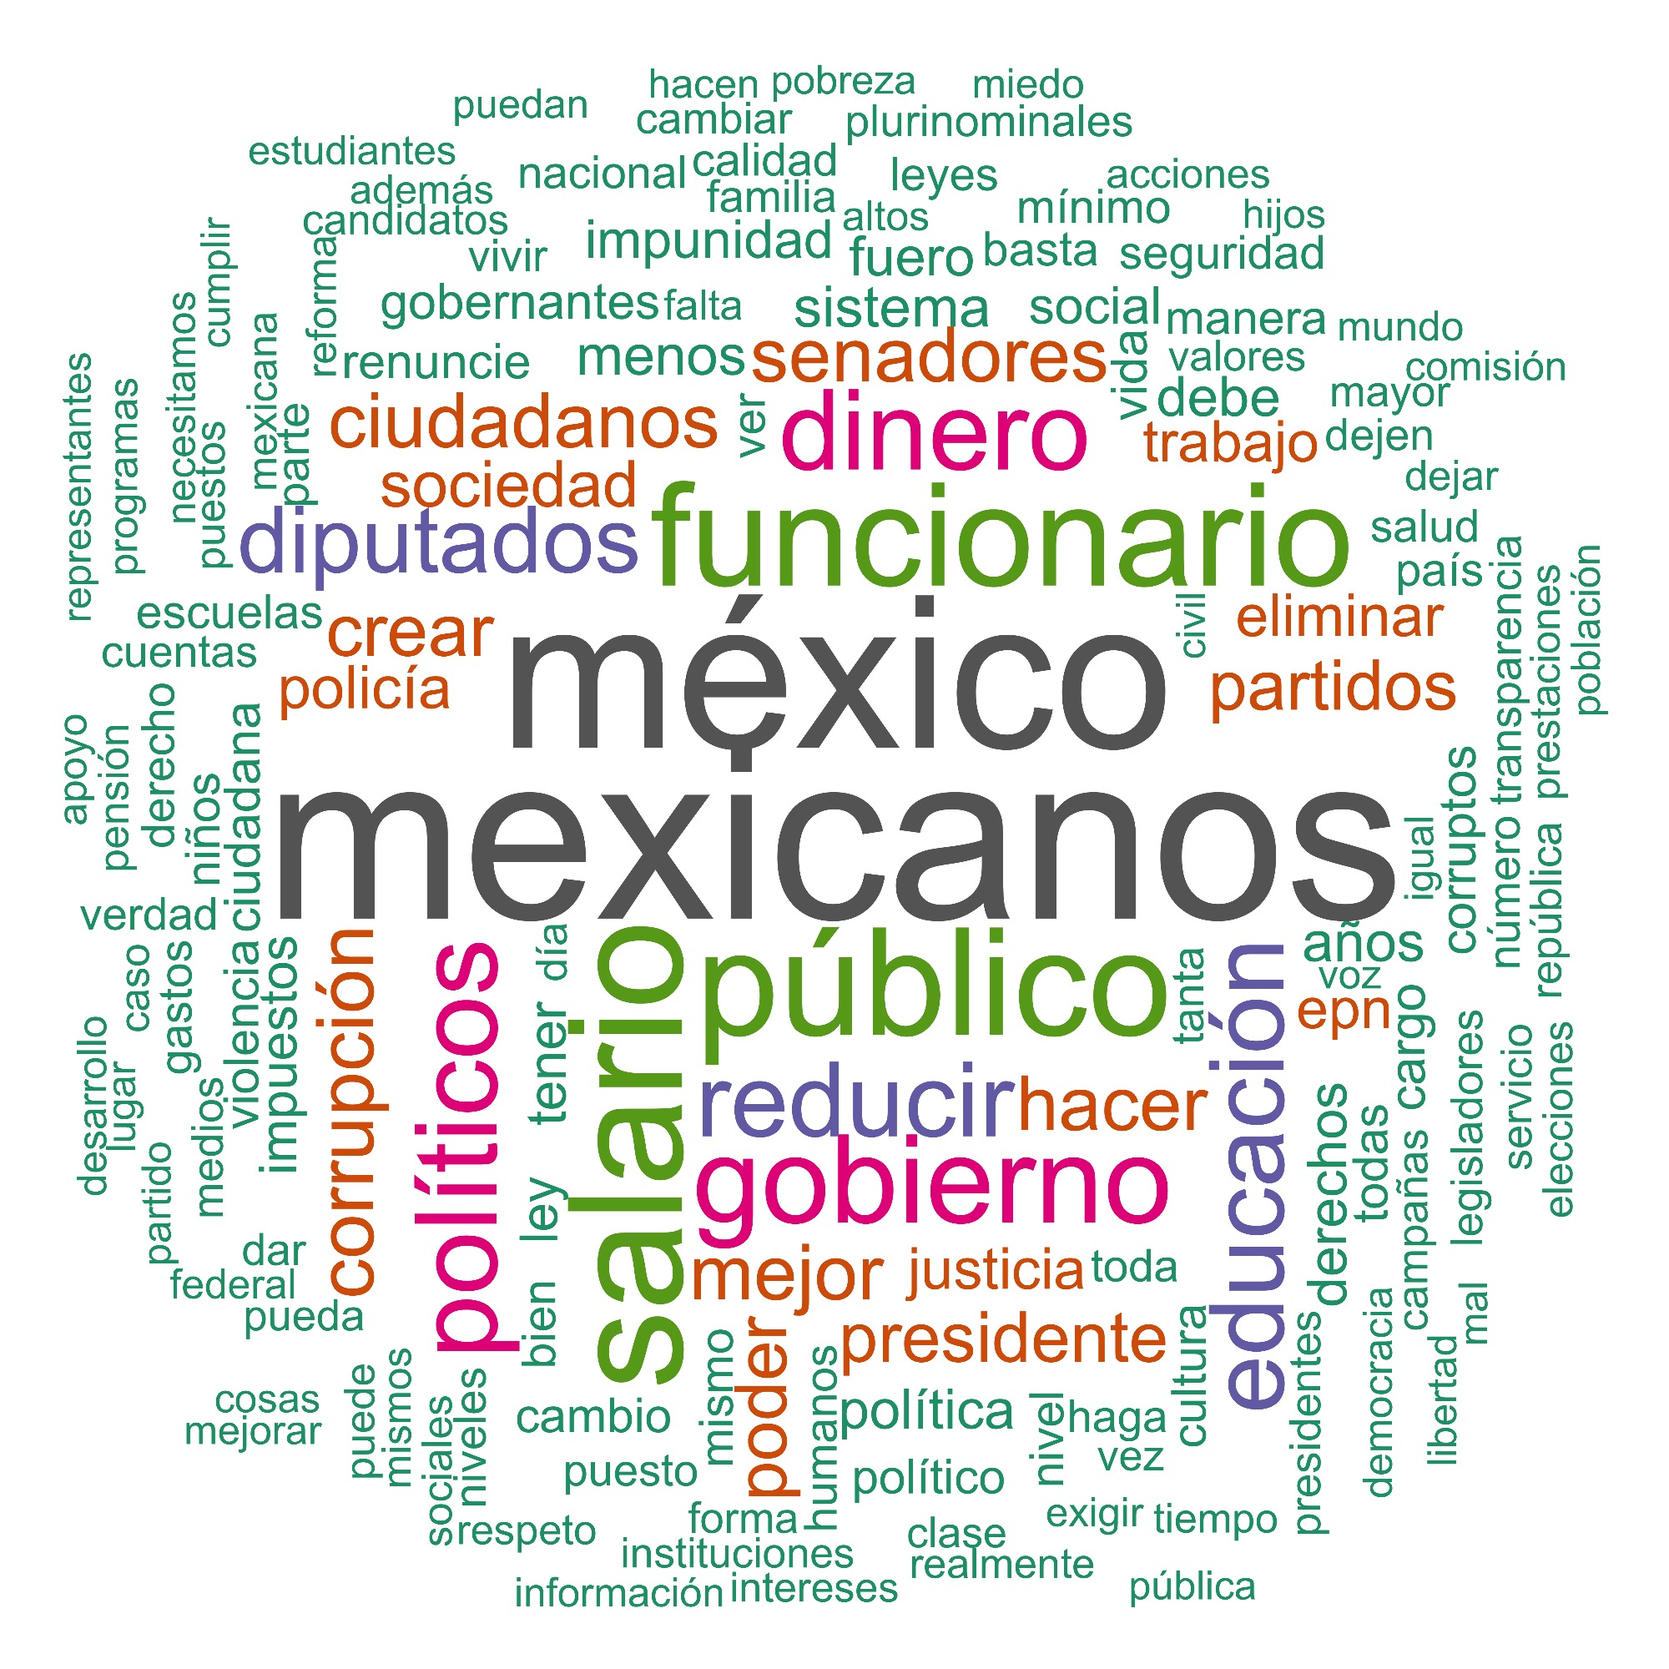
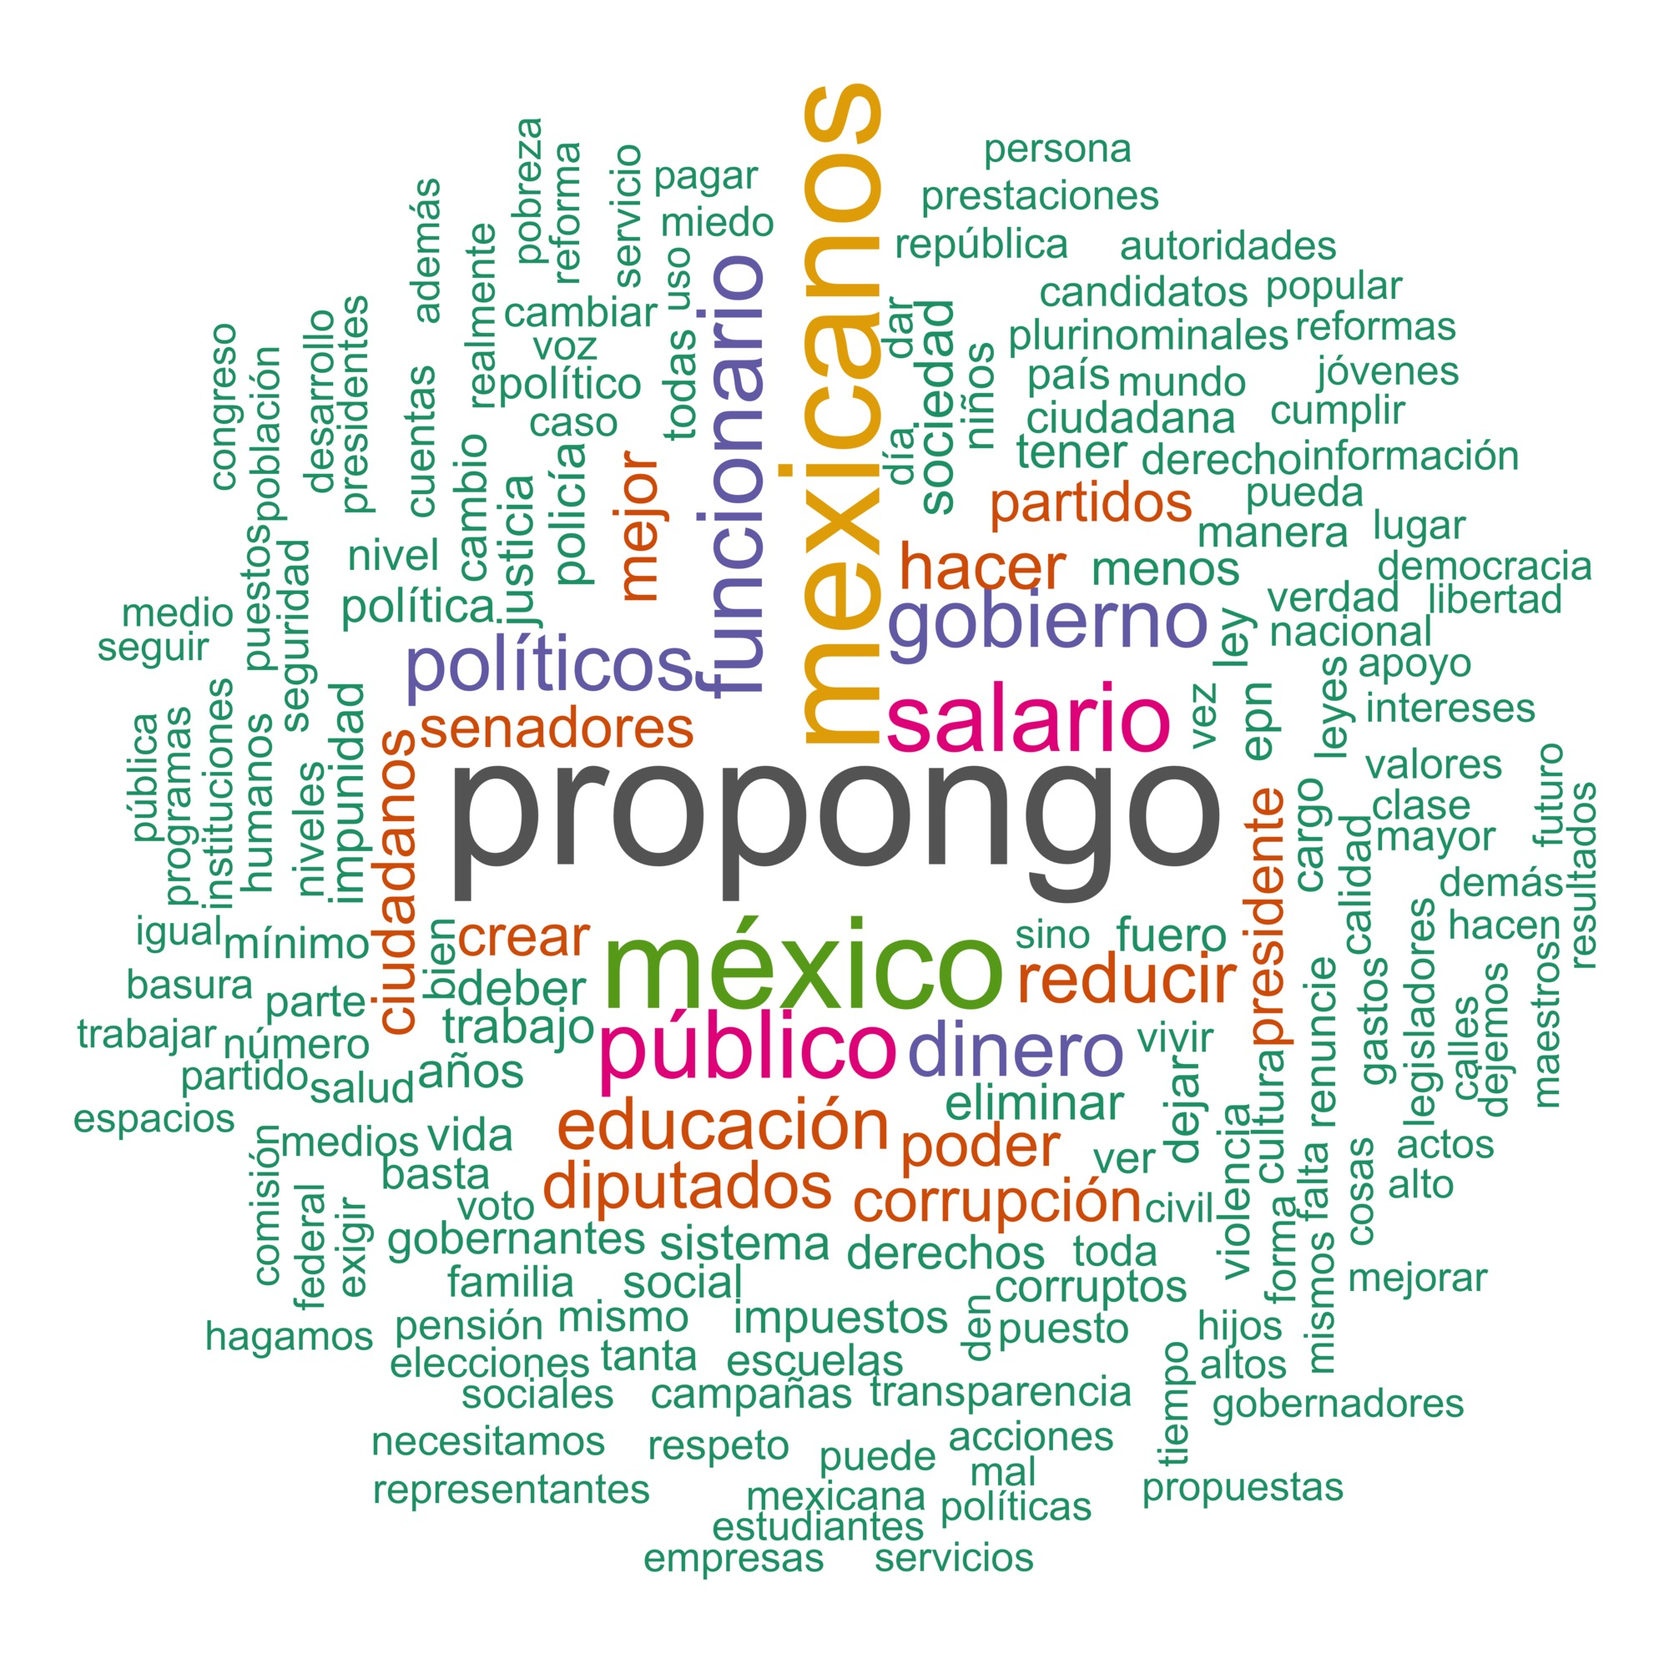
New What's New page with poster. Made that the frontpage for now.

Changed region(s): [[0.031, 0.031, 0.961, 0.961]]

diff --git a/whatsnext.html b/whatsnext.html
@@ -9,18 +9,362 @@
 <body role="document">
 
 <div class="container-fluid">
-  <div id="navbar"></div>
+    <style>
+    .navbar-header img { max-height: 90px; }
+    .navbar-fixed-top { min-height: 90px; }
+    body {
+      padding-top: 680px;
+    }
+    .scrollable-menu {
+      height: auto;
+      max-height: 500px;
+      overflow-x: hidden;
+    }
+    .footer {
+      font-size: 65%;
+      /* Set the fixed height of the footer here */
+      height: 20px;
+      background-color: #f5f5f5;
+    }
+    /* Sticky footer styles
+    -------------------------------------------------- */
+    html {
+      position: relative;
+      min-height: 100%;
+    }
+    body {
+      /* Margin bottom by footer height */
+      margin-bottom: 20px;
+    }
+    .footer {
+      position: absolute;
+      bottom: 0;
+      width: 100%;
+      /* Set the fixed height of the footer here */
+      height: 20px;
+      background-color: #f5f5f5;
+    }
+  </style>
+  <style>
+    .navbar-header img { max-height: 90px; }
+    .navbar-fixed-top { min-height: 90px; }
+    body {
+      padding-top: 90px;
+    }
+    .scrollable-menu {
+      height: auto;
+      max-height: 500px;
+      overflow-x: hidden;
+    }
+    .footer {
+      font-size: 65%;
+      /* Set the fixed height of the footer here */
+      height: 20px;
+      background-color: #f5f5f5;
+    }
+    /* Sticky footer styles
+    -------------------------------------------------- */
+    html {
+      position: relative;
+      min-height: 100%;
+    }
+    body {
+      /* Margin bottom by footer height */
+      margin-bottom: 20px;
+    }
+    .footer {
+      position: absolute;
+      bottom: 0;
+      width: 100%;
+      /* Set the fixed height of the footer here */
+      height: 20px;
+      background-color: #f5f5f5;
+    }
+  </style>
 
-  <img class="img-responsive" src="banner_thin.jpg"/>
+  <!-- Hook for FB Share button-->
+  <div id="fb-root"></div>
+  <script>(function(d, s, id) {
+    var js, fjs = d.getElementsByTagName(s)[0];
+    if (d.getElementById(id)) return;
+    js = d.createElement(s); js.id = id;
+    js.src = "//connect.facebook.net/en_US/sdk.js#xfbml=1&version=v2.0";
+    fjs.parentNode.insertBefore(js, fjs);
+  }(document, 'script', 'facebook-jssdk'));</script>
+  <!-- Hook for FB Share button end-->
 
-  <p>El 3 de marzo a partir de las 12pm entregaremos y presentaremos las postales en un evento abierto al público. Aparta la fecha.</p>
+  <div class="navbar navbar-default navbar-fixed-top" role="navigation" id="topnavbar">
+    <div class="container-fluid">
 
-  <p>A partir de las miles de propuestas recibidas, una comisión de ciudadanos está elaborando un documento que sintetiza y expone las principales inquietudes e ideas ciudadanas, el cual se entregará junto con las postales. Lo publicaremos aquí en los próximos días.</p>
+      <div class="navbar-header">
+        <a href="/">
+          <img class="img-responsive"
+               alt="Ya Me Cansé Por Eso Propongo"
+               src="/logo.png"/>
+        </a>
 
-  <img class="img-responsive" src="banner_thin.jpg"/>
+        <button type="button"
+                class="navbar-toggle collapsed"
+                data-toggle="collapse"
+                data-target=".navbar-collapse">
+          <span class="sr-only">Toggle navigation</span>
+          <span class="icon-bar"></span>
+          <span class="icon-bar"></span>
+          <span class="icon-bar"></span>
+        </button>
+      </div>
+
+      <div class="navbar-collapse collapse">
+        <ul class="nav navbar-nav navbar-left">
+          <!-- FB Share button -->
+          <li>
+            <div class="fb-share-button" data-layout="button"></div>
+          </li>
+
+          <!-- Tweet button -->
+          <li>
+            <a href="https://twitter.com/share"
+               class="twitter-share-button"
+               data-text="#YaMeCansé #PorEsoPropongo"
+               data-dnt="true"
+               data-count="none"
+               data-via="poresopropongo"
+            >Tweet</a>
+            <script>window.twttr=(function(d,s,id){var js,fjs=d.getElementsByTagName(s)[0],t=window.twttr||{};if(d.getElementById(id))return;js=d.createElement(s);js.id=id;js.src="https://platform.twitter.com/widgets.js";fjs.parentNode.insertBefore(js,fjs);t._e=[];t.ready=function(f){t._e.push(f);};return t;}(document,"script","twitter-wjs"));</script>
+          </li>
+        </ul>
+
+        <ul class="nav navbar-nav navbar-right">
+
+          <li class="dropdown">
+            <a href="#"
+               class="dropdown-toggle"
+               data-toggle="dropdown"
+               role="button"
+               aria-expanded="false"
+            >Postales Enviadas<span class="caret"></span></a>
+            <ul class="dropdown-menu scrollable-menu" role="menu">
+              <li><a href="/17200">Galerías 1</a></li>
+              <li><a href="/17100">Galerías 2</a></li>
+              <li><a href="/17000">Galerías 3</a></li>
+              <li><a href="/16900">Galerías 4</a></li>
+              <li><a href="/16800">Galerías 5</a></li>
+              <li><a href="/16700">Galerías 6</a></li>
+              <li><a href="/16600">Galerías 7</a></li>
+              <li><a href="/16500">Galerías 8</a></li>
+              <li><a href="/16400">Galerías 9</a></li>
+              <li><a href="/16300">Galerías 10</a></li>
+              <li><a href="/16200">Galerías 11</a></li>
+              <li><a href="/16100">Galerías 12</a></li>
+              <li><a href="/16000">Galerías 13</a></li>
+              <li><a href="/15900">Galerías 14</a></li>
+              <li><a href="/15800">Galerías 15</a></li>
+              <li><a href="/15700">Galerías 16</a></li>
+              <li><a href="/15600">Galerías 17</a></li>
+              <li><a href="/15500">Galerías 18</a></li>
+              <li><a href="/15400">Galerías 19</a></li>
+              <li><a href="/15300">Galerías 20</a></li>
+              <li><a href="/15200">Galerías 21</a></li>
+              <li><a href="/15100">Galerías 22</a></li>
+              <li><a href="/15000">Galerías 23</a></li>
+              <li><a href="/14900">Galerías 24</a></li>
+              <li><a href="/14800">Galerías 25</a></li>
+              <li><a href="/14700">Galerías 26</a></li>
+              <li><a href="/14600">Galerías 27</a></li>
+              <li><a href="/14500">Galerías 28</a></li>
+              <li><a href="/14400">Galerías 29</a></li>
+              <li><a href="/14300">Galerías 30</a></li>
+              <li><a href="/14200">Galerías 31</a></li>
+              <li><a href="/14100">Galerías 32</a></li>
+              <li><a href="/14000">Galerías 33</a></li>
+              <li><a href="/13900">Galerías 34</a></li>
+              <li><a href="/13800">Galerías 35</a></li>
+              <li><a href="/13700">Galerías 36</a></li>
+              <li><a href="/13600">Galerías 37</a></li>
+              <li><a href="/13500">Galerías 38</a></li>
+              <li><a href="/13400">Galerías 39</a></li>
+              <li><a href="/13300">Galerías 40</a></li>
+              <li><a href="/13200">Galerías 41</a></li>
+              <li><a href="/13100">Galerías 42</a></li>
+              <li><a href="/13000">Galerías 43</a></li>
+              <li><a href="/12900">Galerías 44</a></li>
+              <li><a href="/12800">Galerías 45</a></li>
+              <li><a href="/12700">Galerías 46</a></li>
+              <li><a href="/12600">Galerías 47</a></li>
+              <li><a href="/12500">Galerías 48</a></li>
+              <li><a href="/12400">Galerías 49</a></li>
+              <li><a href="/12300">Galerías 50</a></li>
+              <li><a href="/12200">Galerías 51</a></li>
+              <li><a href="/12100">Galerías 52</a></li>
+              <li><a href="/12000">Galerías 53</a></li>
+              <li><a href="/11900">Galerías 54</a></li>
+              <li><a href="/11800">Galerías 55</a></li>
+              <li><a href="/11700">Galerías 56</a></li>
+              <li><a href="/11600">Galerías 57</a></li>
+              <li><a href="/11500">Galerías 58</a></li>
+              <li><a href="/11400">Galerías 59</a></li>
+              <li><a href="/11300">Galerías 60</a></li>
+              <li><a href="/11200">Galerías 61</a></li>
+              <li><a href="/11100">Galerías 62</a></li>
+              <li><a href="/11000">Galerías 63</a></li>
+              <li><a href="/10900">Galerías 64</a></li>
+              <li><a href="/10800">Galerías 65</a></li>
+              <li><a href="/10700">Galerías 66</a></li>
+              <li><a href="/10600">Galerías 67</a></li>
+              <li><a href="/10500">Galerías 68</a></li>
+              <li><a href="/10400">Galerías 69</a></li>
+              <li><a href="/10300">Galerías 70</a></li>
+              <li><a href="/10200">Galerías 71</a></li>
+              <li><a href="/10100">Galerías 72</a></li>
+              <li><a href="/10000">Galerías 73</a></li>
+              <li><a href="/9900">Galerías 74</a></li>
+              <li><a href="/9800">Galerías 75</a></li>
+              <li><a href="/9700">Galerías 76</a></li>
+              <li><a href="/9600">Galerías 77</a></li>
+              <li><a href="/9500">Galerías 78</a></li>
+              <li><a href="/9400">Galerías 79</a></li>
+              <li><a href="/9300">Galerías 80</a></li>
+              <li><a href="/9200">Galerías 81</a></li>
+              <li><a href="/9100">Galerías 82</a></li>
+              <li><a href="/9000">Galerías 83</a></li>
+              <li><a href="/8900">Galerías 84</a></li>
+              <li><a href="/8800">Galerías 85</a></li>
+              <li><a href="/8700">Galerías 86</a></li>
+              <li><a href="/8600">Galerías 87</a></li>
+              <li><a href="/8500">Galerías 88</a></li>
+              <li><a href="/8400">Galerías 89</a></li>
+              <li><a href="/8300">Galerías 90</a></li>
+              <li><a href="/8200">Galerías 91</a></li>
+              <li><a href="/8100">Galerías 92</a></li>
+              <li><a href="/8000">Galerías 93</a></li>
+              <li><a href="/7900">Galerías 94</a></li>
+              <li><a href="/7800">Galerías 95</a></li>
+              <li><a href="/7700">Galerías 96</a></li>
+              <li><a href="/7600">Galerías 97</a></li>
+              <li><a href="/7500">Galerías 98</a></li>
+              <li><a href="/7400">Galerías 99</a></li>
+              <li><a href="/7300">Galerías 100</a></li>
+              <li><a href="/7200">Galerías 101</a></li>
+              <li><a href="/7100">Galerías 102</a></li>
+              <li><a href="/7000">Galerías 103</a></li>
+              <li><a href="/6900">Galerías 104</a></li>
+              <li><a href="/6800">Galerías 105</a></li>
+              <li><a href="/6700">Galerías 106</a></li>
+              <li><a href="/6600">Galerías 107</a></li>
+              <li><a href="/6500">Galerías 108</a></li>
+              <li><a href="/6400">Galerías 109</a></li>
+              <li><a href="/6300">Galerías 110</a></li>
+              <li><a href="/6200">Galerías 111</a></li>
+              <li><a href="/6100">Galerías 112</a></li>
+              <li><a href="/6000">Galerías 113</a></li>
+              <li><a href="/5900">Galerías 114</a></li>
+              <li><a href="/5800">Galerías 115</a></li>
+              <li><a href="/5700">Galerías 116</a></li>
+              <li><a href="/5600">Galerías 117</a></li>
+              <li><a href="/5500">Galerías 118</a></li>
+              <li><a href="/5400">Galerías 119</a></li>
+              <li><a href="/5300">Galerías 120</a></li>
+              <li><a href="/5200">Galerías 121</a></li>
+              <li><a href="/5100">Galerías 122</a></li>
+              <li><a href="/5000">Galerías 123</a></li>
+              <li><a href="/4900">Galerías 124</a></li>
+              <li><a href="/4800">Galerías 125</a></li>
+              <li><a href="/4700">Galerías 126</a></li>
+              <li><a href="/4600">Galerías 127</a></li>
+              <li><a href="/4500">Galerías 128</a></li>
+              <li><a href="/4400">Galerías 129</a></li>
+              <li><a href="/4300">Galerías 130</a></li>
+              <li><a href="/4200">Galerías 131</a></li>
+              <li><a href="/4100">Galerías 132</a></li>
+              <li><a href="/4000">Galerías 133</a></li>
+              <li><a href="/3900">Galerías 134</a></li>
+              <li><a href="/3800">Galerías 135</a></li>
+              <li><a href="/3700">Galerías 136</a></li>
+              <li><a href="/3600">Galerías 137</a></li>
+              <li><a href="/3500">Galerías 138</a></li>
+              <li><a href="/3400">Galerías 139</a></li>
+              <li><a href="/3300">Galerías 140</a></li>
+              <li><a href="/3200">Galerías 141</a></li>
+              <li><a href="/3100">Galerías 142</a></li>
+              <li><a href="/3000">Galerías 143</a></li>
+              <li><a href="/2900">Galerías 144</a></li>
+              <li><a href="/2800">Galerías 145</a></li>
+              <li><a href="/2700">Galerías 146</a></li>
+              <li><a href="/2600">Galerías 147</a></li>
+              <li><a href="/2500">Galerías 148</a></li>
+              <li><a href="/2400">Galerías 149</a></li>
+              <li><a href="/2300">Galerías 150</a></li>
+              <li><a href="/2200">Galerías 151</a></li>
+              <li><a href="/2100">Galerías 152</a></li>
+              <li><a href="/2000">Galerías 153</a></li>
+              <li><a href="/1900">Galerías 154</a></li>
+              <li><a href="/1800">Galerías 155</a></li>
+              <li><a href="/1700">Galerías 156</a></li>
+              <li><a href="/1600">Galerías 157</a></li>
+              <li><a href="/1500">Galerías 158</a></li>
+              <li><a href="/1400">Galerías 159</a></li>
+              <li><a href="/1300">Galerías 160</a></li>
+              <li><a href="/1200">Galerías 161</a></li>
+              <li><a href="/1100">Galerías 162</a></li>
+              <li><a href="/1000">Galerías 163</a></li>
+              <li><a href="/900">Galerías 164</a></li>
+              <li><a href="/800">Galerías 165</a></li>
+              <li><a href="/700">Galerías 166</a></li>
+              <li><a href="/600">Galerías 167</a></li>
+              <li><a href="/500">Galerías 168</a></li>
+              <li><a href="/400">Galerías 169</a></li>
+              <li><a href="/300">Galerías 170</a></li>
+              <li><a href="/200">Galerías 171</a></li>
+              <li><a href="/100">Galerías 172</a></li>
+              <li><a href="/0">Galerías 173</a></li>
+            </ul>
+          </li>
+
+          <li>
+            <div class="navlinks"></div> <!-- render.py will overwrite this, unless this is a static page. -->
+          </li>
+
+          <li><a href="/whatsnext.html">¿Qué sigue?</a></li>
+          <li><a href="/randcard">Postal al azar</a></li>
+
+          <li class="dropdown">
+            <a href="#" 
+               class="dropdown-toggle"
+               data-toggle="dropdown"
+               role="button"
+               aria-expanded="false">Las propuestas<span class="caret"></span>
+            </a>
+            <ul class="dropdown-menu" role="menu">
+              <li><a href="/analysis.html">Propuestas más frecuentes</a></li>
+              <li><a href="/wordcloud.html">Palabras más frecuentes</a></li>
+            </ul>
+          </li>
+
+          <li><a href="/about.html">¿Por qué proponer?</a></li>
+          <li><a href="/contact.html">Prensa y Contacto</a></li>
+          <li><a href="/"></a></li> <!-- FIXME: Kludge to add space on right side -->
+        </ul>
+      </div><!--/.nav-collapse -->
+
+    </div>
+  </div>
+
+  <div class="row">
+    <div class="col-lg-12 col-md-12 col-sm-12 col-xm-12" style="background-color:black;">
+      <img class="img-responsive center-block" src="posterfinal.jpg"/>
+    </div>
+  </div>
+
 </div>
+
+<footer class="footer">
+  <div class="container">
+    <p class="text-muted">Site design by <a href="http://twitter.com/kesterallen" rel="author">Kester Allen</a>.</p>
+  </div>
+</footer>
+
+
 <script src="/jquery-1.11.1.min.js"></script>
-<script>$(function(){ $("#navbar").load("navbar.html"); });</script>
 <script>
   $(document).ready(function(){
     $(document.body).css('padding-top', $('#topnavbar').height() + 10);

diff --git a/wordcloud.html b/wordcloud.html
@@ -23,7 +23,7 @@
   <img class="img-responsive" src="banner_thin.jpg"/>
   <center>
     <h2>Por eso propongo en 100 palabras:</h2>
-    <img class="img-responsive" src="wordcloud_final.jpg"/>
+    <img class="img-responsive" src="wordcloud.jpg"/>
     <p>
     <small>
     Esta nube de palabras muestra las palabras que aparecen en, cuando menos, 2% de las postales. El tamaño de letra en cada palabra crece en función de su frecuencia relativa. Esto es, el tamaño de letra de una palabra en la nube de palabras es mayor cuanto más frecuentemente aparece en las postales
